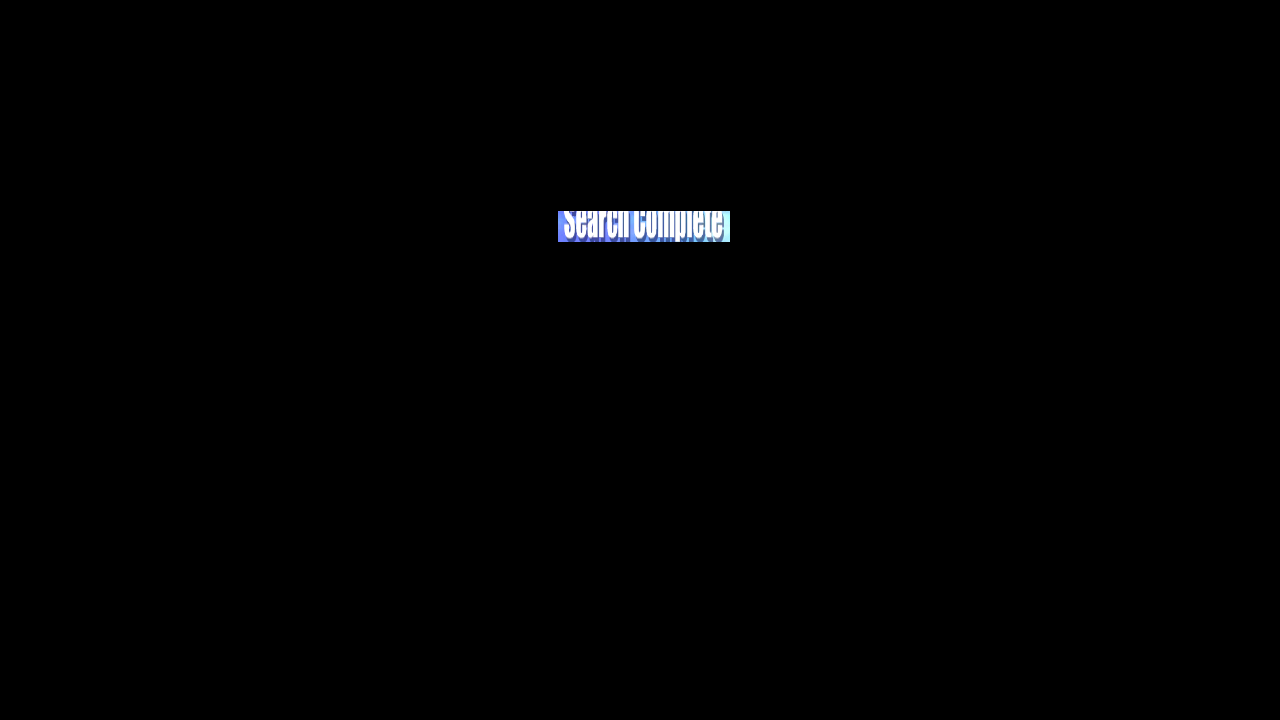
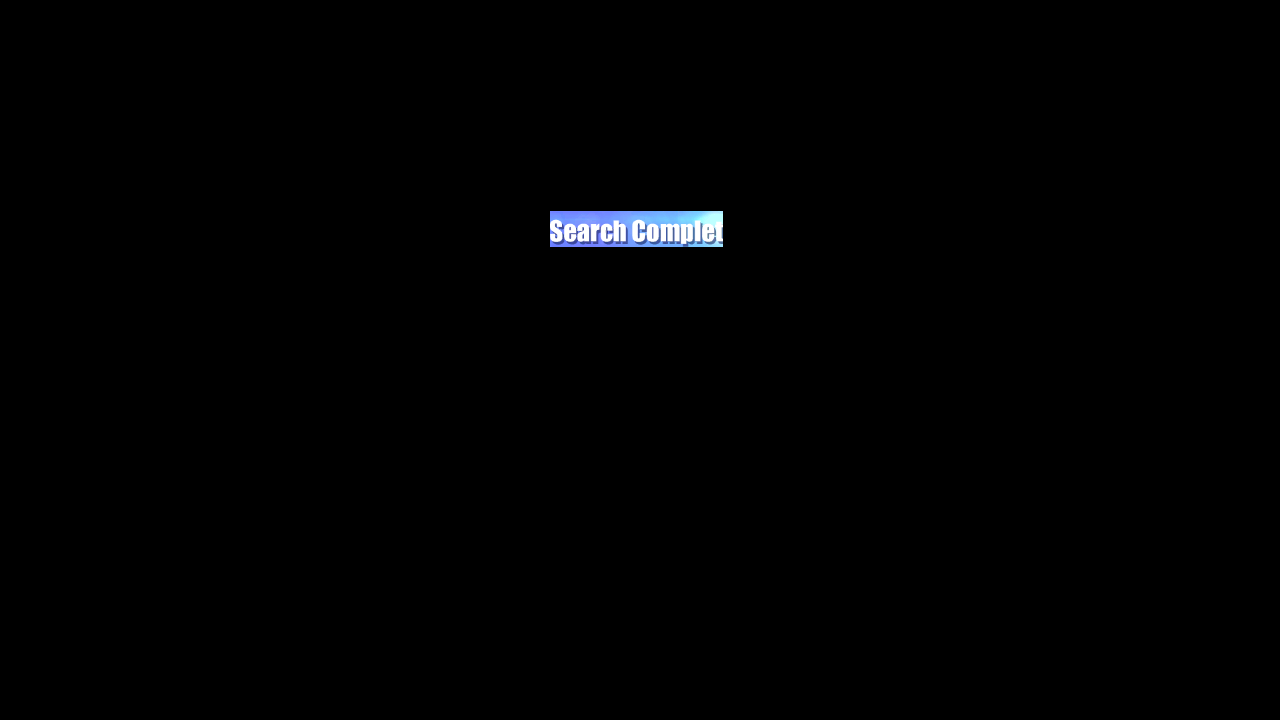
Fix: [EN] GET_MEOWFFICER_ITEMS_* assets changed due to update
TODO: Other servers may need to also acquire new assets

Changed region(s): [[0.4062, 0.275, 0.5938, 0.3667]]

diff --git a/module/os_handler/assets.py b/module/os_handler/assets.py
@@ -7,8 +7,8 @@ from module.base.template import Template
 ASH_POPUP_CHECK = Button(area={'cn': (376, 368, 902, 396), 'en': (376, 368, 902, 396), 'jp': (376, 368, 902, 396), 'tw': (376, 368, 902, 396)}, color={'cn': (134, 105, 119), 'en': (134, 105, 119), 'jp': (134, 105, 119), 'tw': (134, 105, 119)}, button={'cn': (376, 368, 902, 396), 'en': (376, 368, 902, 396), 'jp': (376, 368, 902, 396), 'tw': (376, 368, 902, 396)}, file={'cn': './assets/cn/os_handler/ASH_POPUP_CHECK.png', 'en': './assets/en/os_handler/ASH_POPUP_CHECK.png', 'jp': './assets/jp/os_handler/ASH_POPUP_CHECK.png', 'tw': './assets/tw/os_handler/ASH_POPUP_CHECK.png'})
 CLICK_SAFE_AREA = Button(area={'cn': (1104, 169, 1214, 284), 'en': (1104, 169, 1214, 284), 'jp': (1104, 169, 1214, 284), 'tw': (1104, 169, 1214, 284)}, color={'cn': (96, 114, 142), 'en': (96, 114, 142), 'jp': (96, 114, 142), 'tw': (96, 114, 142)}, button={'cn': (1104, 169, 1214, 284), 'en': (1104, 169, 1214, 284), 'jp': (1104, 169, 1214, 284), 'tw': (1104, 169, 1214, 284)}, file={'cn': './assets/cn/os_handler/CLICK_SAFE_AREA.png', 'en': './assets/en/os_handler/CLICK_SAFE_AREA.png', 'jp': './assets/jp/os_handler/CLICK_SAFE_AREA.png', 'tw': './assets/tw/os_handler/CLICK_SAFE_AREA.png'})
 GET_ADAPTABILITY = Button(area={'cn': (538, 191, 742, 227), 'en': (548, 191, 742, 215), 'jp': (538, 191, 743, 227), 'tw': (538, 191, 742, 227)}, color={'cn': (166, 195, 246), 'en': (194, 207, 225), 'jp': (158, 190, 245), 'tw': (166, 195, 246)}, button={'cn': (538, 191, 742, 227), 'en': (548, 191, 742, 215), 'jp': (538, 191, 743, 227), 'tw': (538, 191, 742, 227)}, file={'cn': './assets/cn/os_handler/GET_ADAPTABILITY.png', 'en': './assets/en/os_handler/GET_ADAPTABILITY.png', 'jp': './assets/jp/os_handler/GET_ADAPTABILITY.png', 'tw': './assets/tw/os_handler/GET_ADAPTABILITY.png'})
-GET_MEOWFFICER_ITEMS_1 = Button(area={'cn': (558, 211, 730, 242), 'en': (558, 211, 730, 242), 'jp': (538, 217, 732, 253), 'tw': (558, 211, 730, 242)}, color={'cn': (186, 200, 231), 'en': (186, 200, 231), 'jp': (143, 180, 249), 'tw': (186, 200, 231)}, button={'cn': (558, 211, 730, 242), 'en': (558, 211, 730, 242), 'jp': (538, 217, 732, 253), 'tw': (558, 211, 730, 242)}, file={'cn': './assets/cn/os_handler/GET_MEOWFFICER_ITEMS_1.png', 'en': './assets/en/os_handler/GET_MEOWFFICER_ITEMS_1.png', 'jp': './assets/jp/os_handler/GET_MEOWFFICER_ITEMS_1.png', 'tw': './assets/tw/os_handler/GET_MEOWFFICER_ITEMS_1.png'})
-GET_MEOWFFICER_ITEMS_2 = Button(area={'cn': (558, 140, 730, 171), 'en': (558, 140, 730, 171), 'jp': (538, 146, 731, 182), 'tw': (558, 140, 730, 171)}, color={'cn': (186, 200, 231), 'en': (186, 200, 231), 'jp': (143, 179, 249), 'tw': (186, 200, 231)}, button={'cn': (558, 140, 730, 171), 'en': (558, 140, 730, 171), 'jp': (538, 146, 731, 182), 'tw': (558, 140, 730, 171)}, file={'cn': './assets/cn/os_handler/GET_MEOWFFICER_ITEMS_2.png', 'en': './assets/en/os_handler/GET_MEOWFFICER_ITEMS_2.png', 'jp': './assets/jp/os_handler/GET_MEOWFFICER_ITEMS_2.png', 'tw': './assets/tw/os_handler/GET_MEOWFFICER_ITEMS_2.png'})
+GET_MEOWFFICER_ITEMS_1 = Button(area={'cn': (558, 211, 730, 242), 'en': (550, 211, 723, 247), 'jp': (538, 217, 732, 253), 'tw': (558, 211, 730, 242)}, color={'cn': (186, 200, 231), 'en': (165, 191, 241), 'jp': (143, 180, 249), 'tw': (186, 200, 231)}, button={'cn': (558, 211, 730, 242), 'en': (550, 211, 723, 247), 'jp': (538, 217, 732, 253), 'tw': (558, 211, 730, 242)}, file={'cn': './assets/cn/os_handler/GET_MEOWFFICER_ITEMS_1.png', 'en': './assets/en/os_handler/GET_MEOWFFICER_ITEMS_1.png', 'jp': './assets/jp/os_handler/GET_MEOWFFICER_ITEMS_1.png', 'tw': './assets/tw/os_handler/GET_MEOWFFICER_ITEMS_1.png'})
+GET_MEOWFFICER_ITEMS_2 = Button(area={'cn': (558, 140, 730, 171), 'en': (550, 140, 723, 176), 'jp': (538, 146, 731, 182), 'tw': (558, 140, 730, 171)}, color={'cn': (186, 200, 231), 'en': (165, 191, 242), 'jp': (143, 179, 249), 'tw': (186, 200, 231)}, button={'cn': (558, 140, 730, 171), 'en': (550, 140, 723, 176), 'jp': (538, 146, 731, 182), 'tw': (558, 140, 730, 171)}, file={'cn': './assets/cn/os_handler/GET_MEOWFFICER_ITEMS_2.png', 'en': './assets/en/os_handler/GET_MEOWFFICER_ITEMS_2.png', 'jp': './assets/jp/os_handler/GET_MEOWFFICER_ITEMS_2.png', 'tw': './assets/tw/os_handler/GET_MEOWFFICER_ITEMS_2.png'})
 IN_MAP = Button(area={'cn': (921, 640, 1023, 695), 'en': (921, 640, 1023, 695), 'jp': (918, 637, 1026, 698), 'tw': (936, 638, 1037, 697)}, color={'cn': (240, 194, 115), 'en': (239, 192, 110), 'jp': (236, 192, 111), 'tw': (239, 192, 111)}, button={'cn': (921, 640, 1023, 695), 'en': (921, 640, 1023, 695), 'jp': (918, 637, 1026, 698), 'tw': (936, 638, 1037, 697)}, file={'cn': './assets/cn/os_handler/IN_MAP.png', 'en': './assets/en/os_handler/IN_MAP.png', 'jp': './assets/jp/os_handler/IN_MAP.png', 'tw': './assets/tw/os_handler/IN_MAP.png'})
 MAP_ARCHIVES = Button(area={'cn': (1180, 353, 1280, 411), 'en': (1212, 353, 1280, 411), 'jp': (1180, 353, 1280, 411), 'tw': (1180, 353, 1280, 411)}, color={'cn': (134, 255, 255), 'en': (135, 255, 255), 'jp': (134, 255, 255), 'tw': (134, 255, 255)}, button={'cn': (1180, 353, 1280, 411), 'en': (1212, 353, 1280, 411), 'jp': (1180, 353, 1280, 411), 'tw': (1180, 353, 1280, 411)}, file={'cn': './assets/cn/os_handler/MAP_ARCHIVES.png', 'en': './assets/en/os_handler/MAP_ARCHIVES.png', 'jp': './assets/jp/os_handler/MAP_ARCHIVES.png', 'tw': './assets/tw/os_handler/MAP_ARCHIVES.png'})
 MAP_WORLD = Button(area={'cn': (578, 675, 702, 691), 'en': (583, 677, 691, 694), 'jp': (586, 676, 693, 694), 'tw': (583, 677, 691, 694)}, color={'cn': (83, 81, 79), 'en': (67, 85, 108), 'jp': (64, 68, 76), 'tw': (67, 85, 108)}, button={'cn': (578, 675, 702, 691), 'en': (583, 677, 691, 694), 'jp': (586, 676, 693, 694), 'tw': (583, 677, 691, 694)}, file={'cn': './assets/cn/os_handler/MAP_WORLD.png', 'en': './assets/en/os_handler/MAP_WORLD.png', 'jp': './assets/jp/os_handler/MAP_WORLD.png', 'tw': './assets/tw/os_handler/MAP_WORLD.png'})
